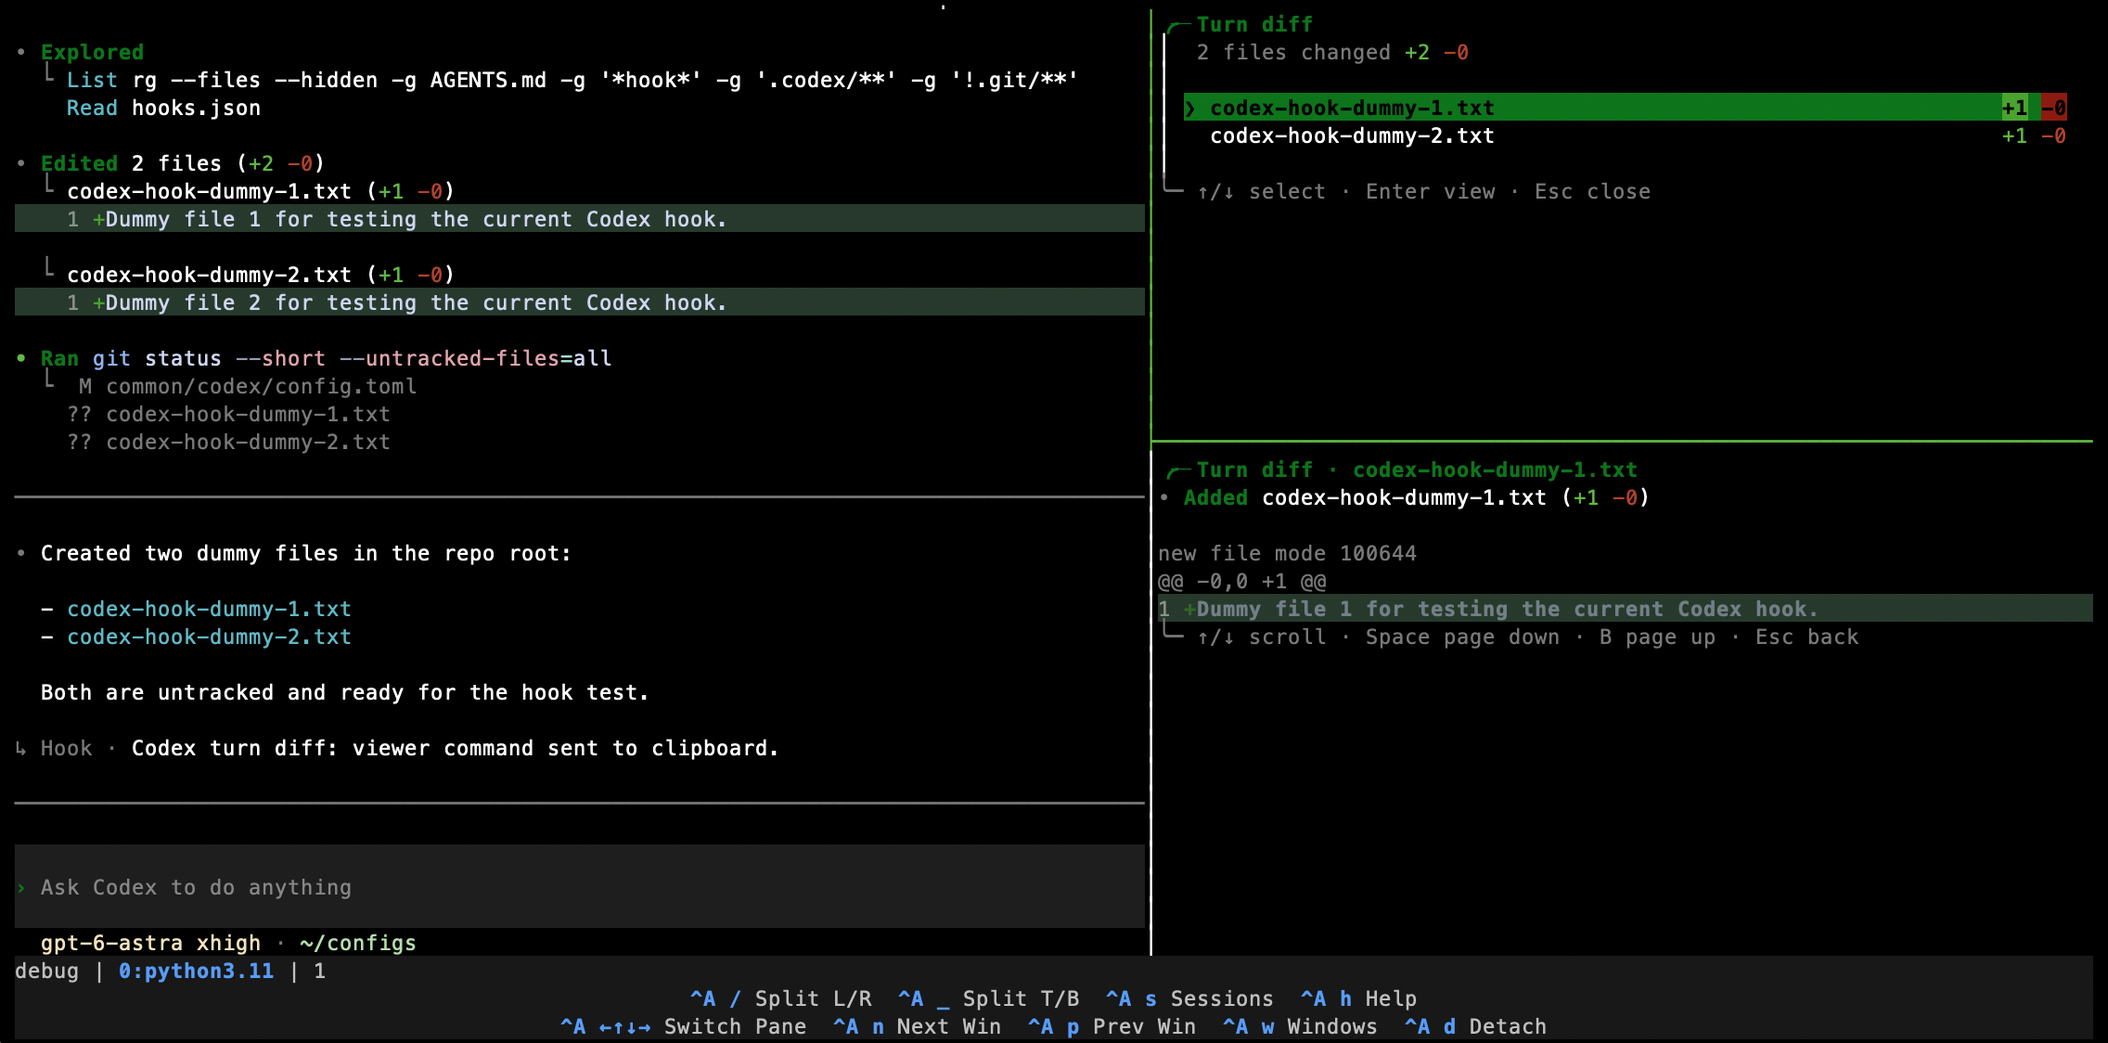
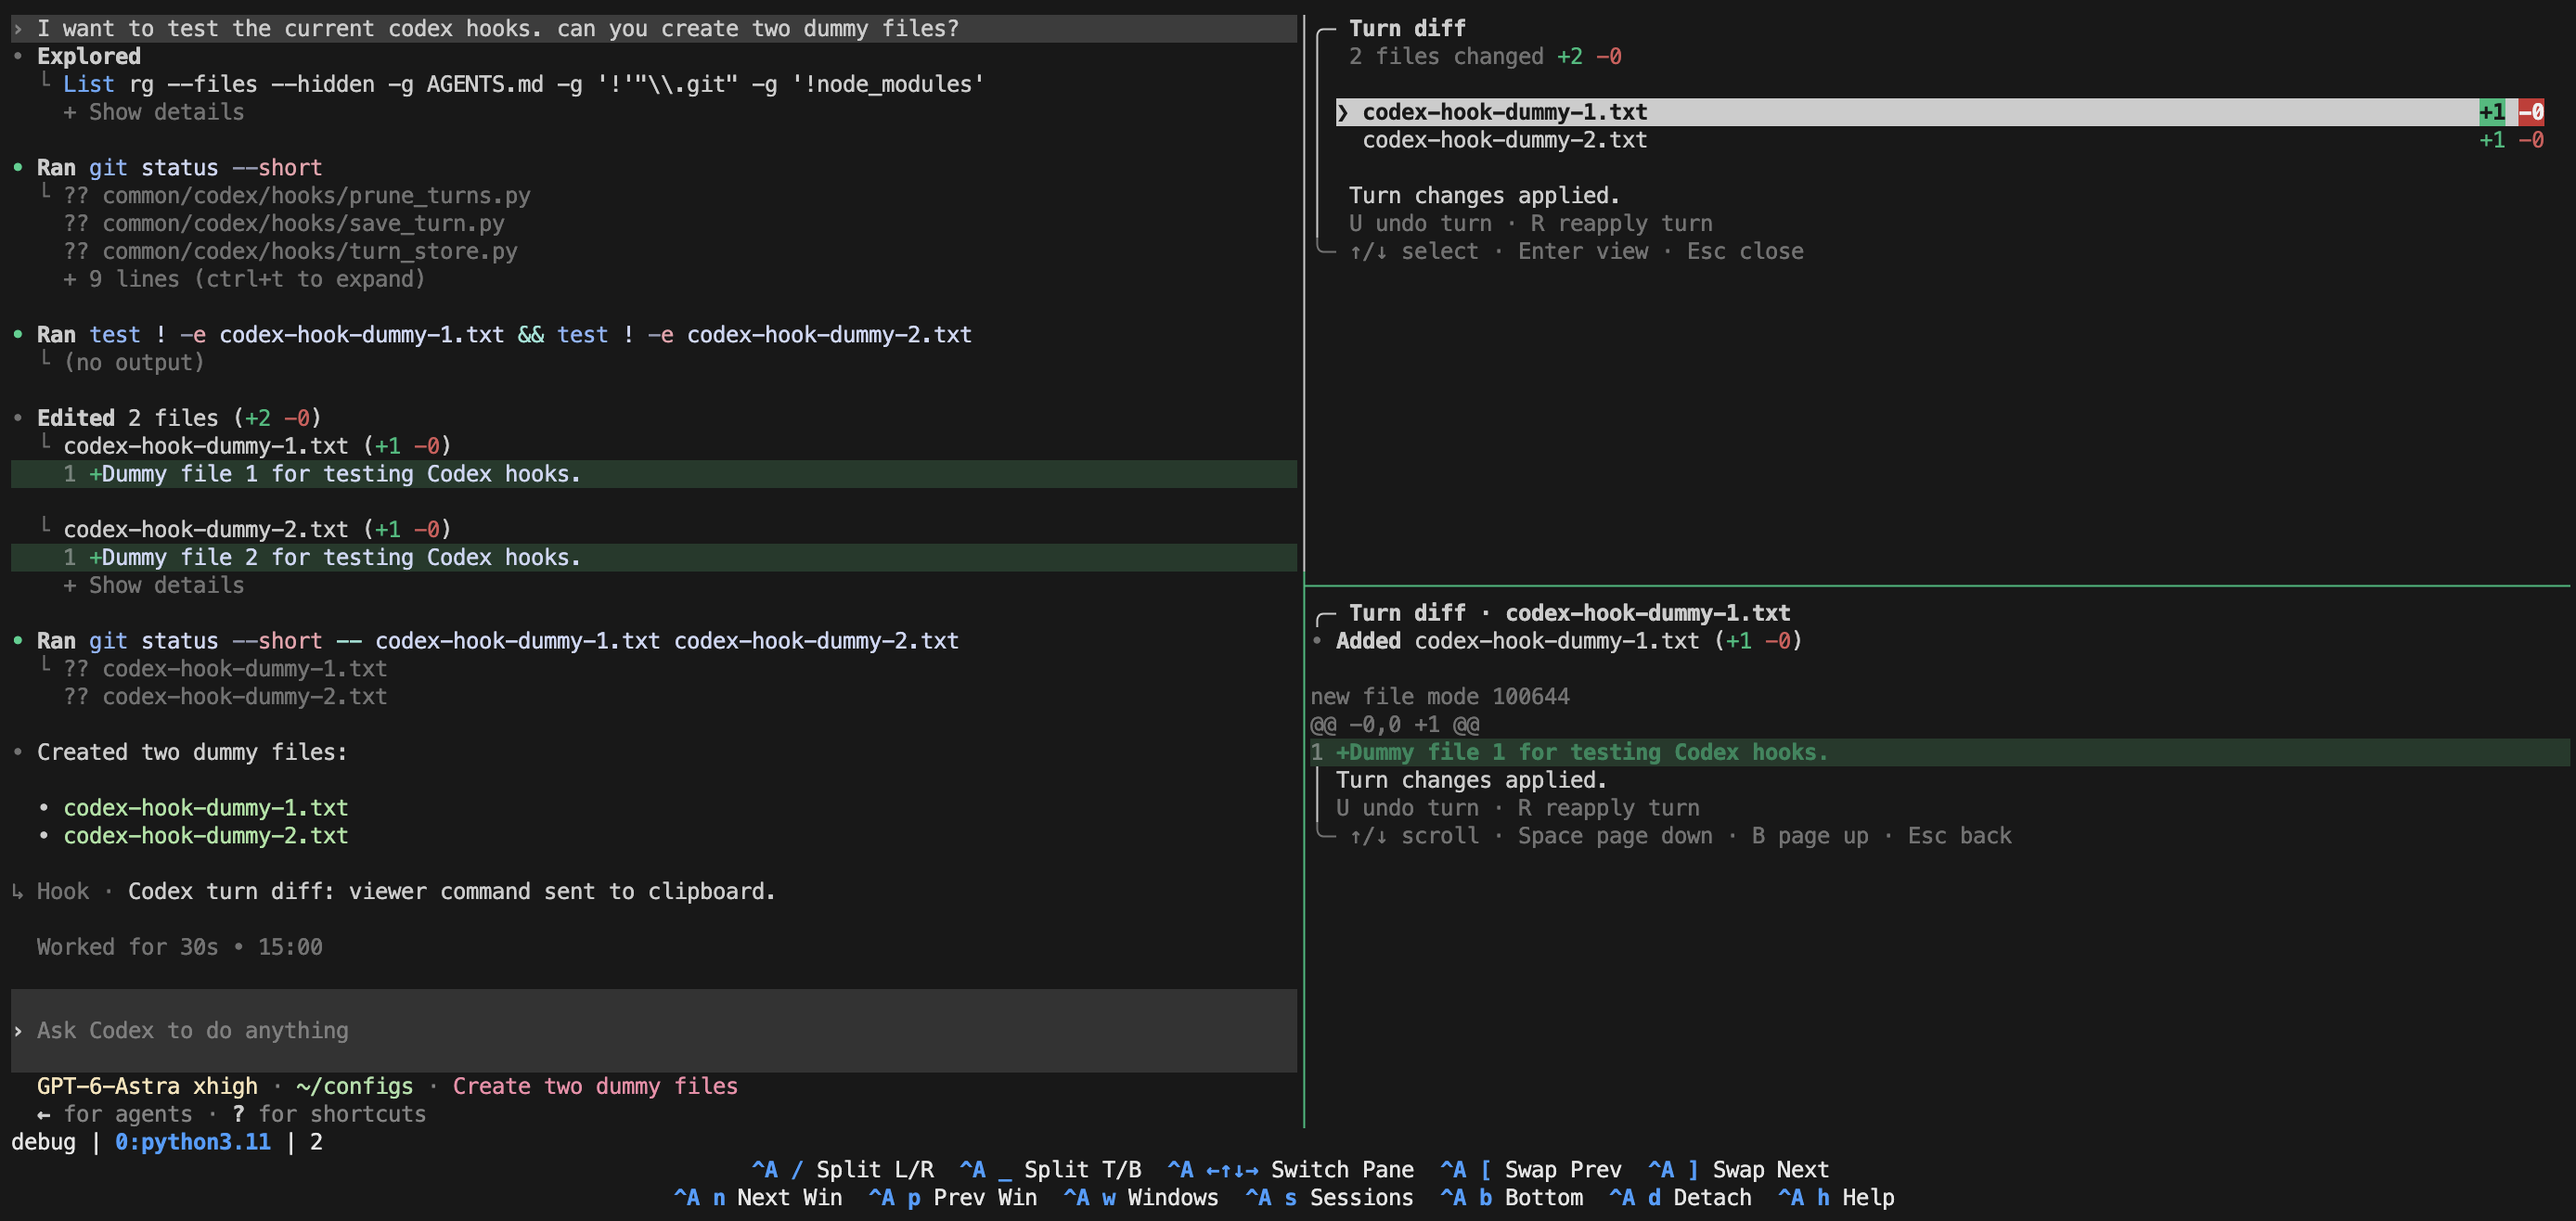
docs(codex): document turn undo and reapply controls

diff --git a/common/codex/README.md b/common/codex/README.md
@@ -5,7 +5,11 @@ style, and run development tasks in Ubuntu or macOS environments.
 
 ## Review changes after each request
 
-The turn-diff viewer lets you check what changed in a turn. It lists the affected files, and  lets you open a colored diff for each file.
+The turn-diff viewer lets you check what changed in a turn. It lists the affected files,
+and lets you open a colored diff for each file.
+
+After a CLI turn finishes, run the copied command in a terminal to open the viewer.
+Press **U** to undo all changes from that turn, or **R** to reapply them.
 
 ![](./hooks/viewer.png)
 
